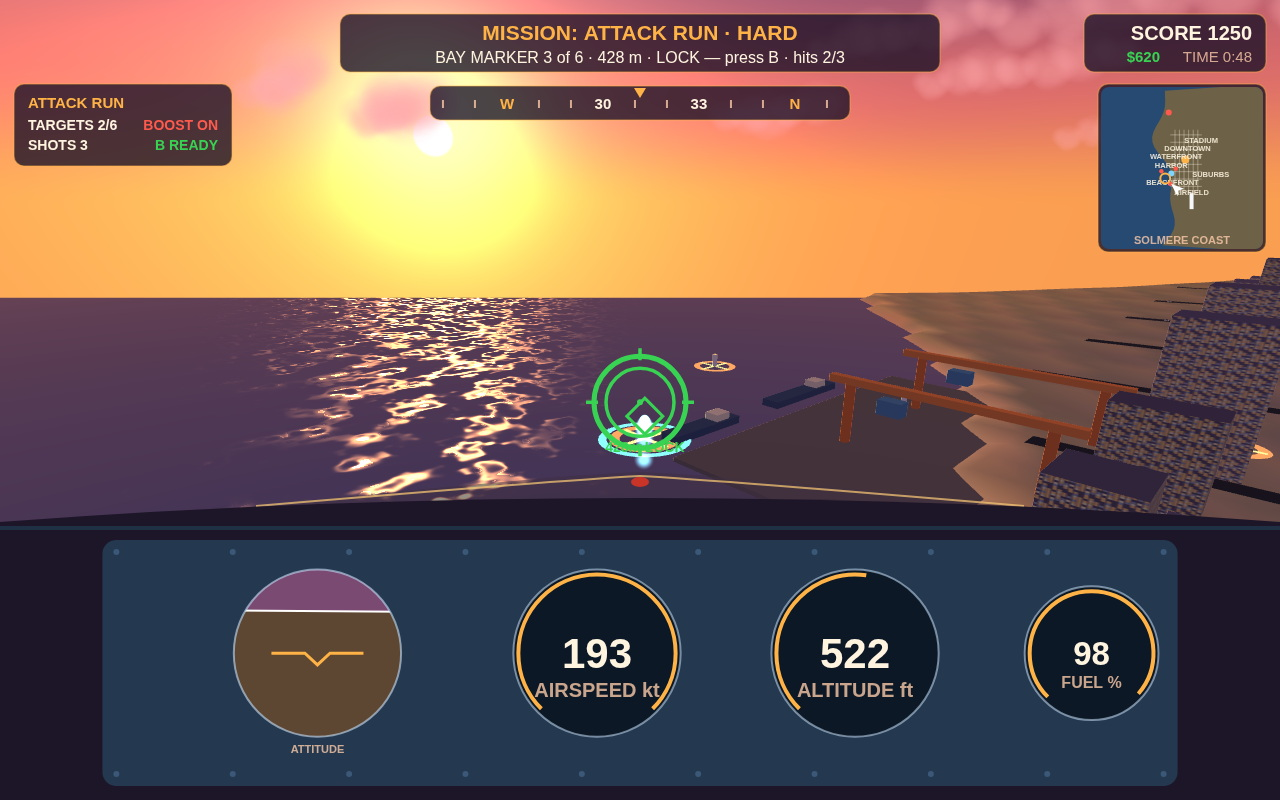
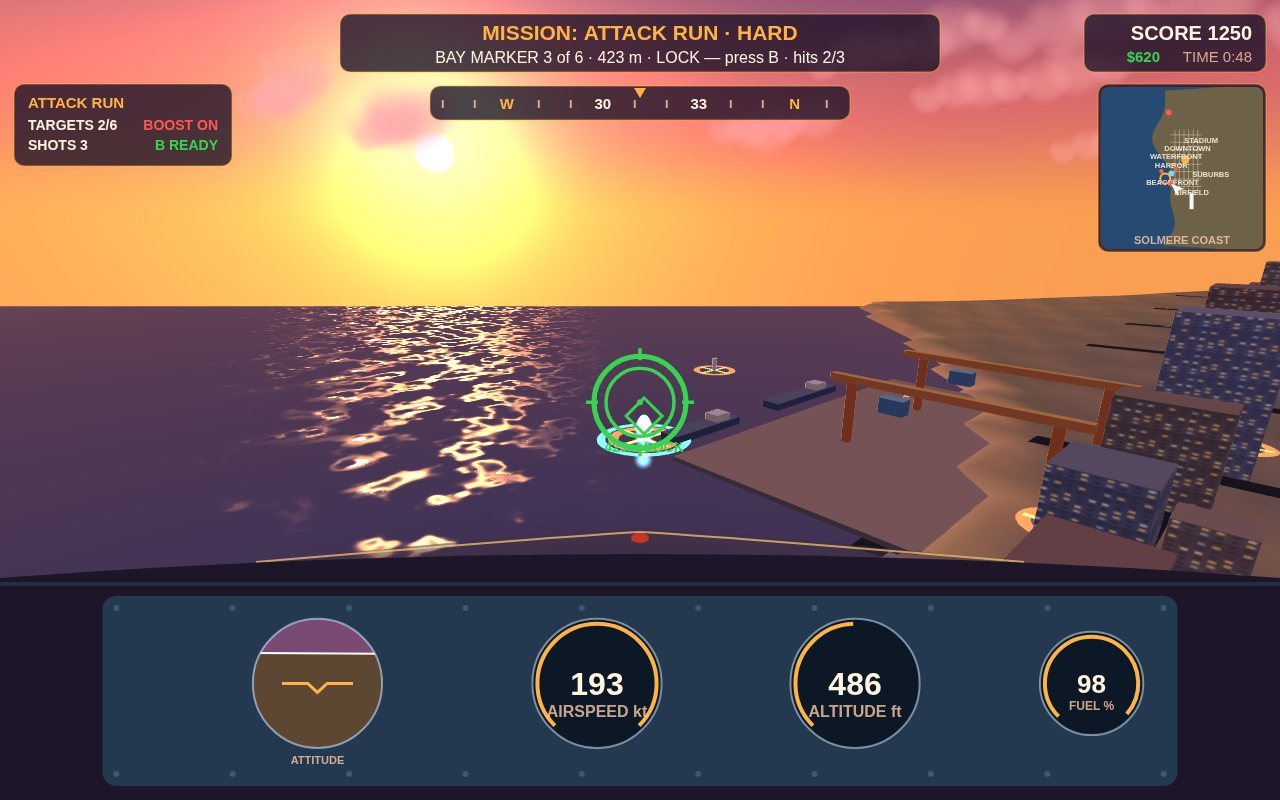
Sunwing Courier v8: calm facades, close chase camera, ring-course cover

diff --git a/game/src/shots.js b/game/src/shots.js
@@ -14,28 +14,28 @@ export function shotSceneFromUrl(search) {
 export function applyShotScene(state, scene) {
   const a = state.aircraft;
   if (scene.shot === 'cover') {
-    // Chase view banking hard over the downtown avenues: traffic and
-    // streetlights below, towers either side, the canyon gate ahead,
-    // sunset sea beyond the skyline, boost lit on the gauges.
-    state.missionKind = 'canyon';
+    // The cover frame: chase view banked over the shoreline toward the
+    // second ring, the Sunwing large in frame, lit skyline below right,
+    // sunset sea and the ring ahead — the whole game in one glance.
+    state.missionKind = 'rings';
     Object.assign(a, {
-      x: 120, y: 88, z: 700, heading: 0.1, pitch: -0.02, roll: -0.5,
-      speed: 60, throttle: 0.7, boostCharge: 0.65, boostBlend: 0.35,
+      x: 145, y: 218, z: 75, heading: -0.6, pitch: 0.02, roll: -0.38,
+      speed: 56, throttle: 0.66, boostCharge: 0.8, boostBlend: 0.2,
       onGround: false, gearDown: false,
     });
     state.missionTime = 42;
-    state.score = 900;
-    state.cash = 540;
-    state.mission.ringIndex = 0;
-    state.mission.target = state.mission.rings[0];
-    state.mission.bannerText = 'Gate 1 of 9 — in the canyon, bonus live';
+    state.score = 300;
+    state.cash = 180;
+    state.mission.ringIndex = 1;
+    state.mission.target = state.mission.rings[1];
+    state.mission.bannerText = 'Ring 2 of 8 — over the skyline to the sunset sea';
   } else if (scene.shot === 'attack') {
     // Attack dive on the third harbour marker: cockpit sight tracking,
     // tracer live, boost burning, cranes and glittering water below.
     state.missionKind = 'attack';
     state.cockpitView = true;
     Object.assign(a, {
-      x: -60, y: 200, z: 640, heading: -0.84, pitch: -0.32, roll: -0.22,
+      x: -60, y: 185, z: 640, heading: -0.84, pitch: -0.24, roll: -0.18,
       speed: 76, throttle: 0.84, boostCharge: 0.6, boostBlend: 0.75,
       onGround: false, gearDown: false,
     });
@@ -57,9 +57,9 @@ export function applyShotScene(state, scene) {
     // Cargo away over the harbour: crate under its parachute ahead of the
     // aircraft, drop beacon, cranes and sunset sea below.
     state.missionKind = 'cargo';
-    Object.assign(a, { x: 120, y: 235, z: 330, heading: -1.22, pitch: 0.0, roll: -0.18, speed: 50, throttle: 0.5, onGround: false, gearDown: false });
+    Object.assign(a, { x: 40, y: 190, z: 330, heading: -1.22, pitch: 0.0, roll: -0.18, speed: 50, throttle: 0.5, onGround: false, gearDown: false });
     state.mission.dropped = true;
-    state.mission.crate = { x: -120, y: 210, z: 290, vx: -8, vy: -7, vz: -3 };
+    state.mission.crate = { x: -150, y: 175, z: 300, vx: -8, vy: -7, vz: -3 };
     state.mission.bannerText = 'Crate away — watch it fall';
     state.missionTime = 54;
     state.score = 450;

diff --git a/game/src/webgl-renderer.js b/game/src/webgl-renderer.js
@@ -534,30 +534,47 @@ function bindBillboards(gl, program, billboards) {
   bindPositions(gl, program, billboards.alphas, 'aAlpha');
 }
 
-// A repeating window sheet: dark facade cells with warm lit windows in two
-// tones, so every building face glows like dusk offices and apartments.
+// A repeating window sheet: calm dusk facades with a sparse grid of warm
+// lit windows. Windows stay small inside their cells with dark glass
+// between them, so a tower reads as a building at thumbnail size instead
+// of dissolving into checkerboard noise.
 function makeWindowsTexture(gl) {
   const size = 256;
   const canvas = document.createElement('canvas');
   canvas.width = size; canvas.height = size;
   const ctx = canvas.getContext('2d');
-  ctx.fillStyle = '#241f2e';
+  const facade = ctx.createLinearGradient(0, 0, 0, size);
+  facade.addColorStop(0, '#3a3348');
+  facade.addColorStop(0.55, '#2e283e');
+  facade.addColorStop(1, '#262032');
+  ctx.fillStyle = facade;
   ctx.fillRect(0, 0, size, size);
-  let seed = 1234567;
+  let seed = 987654321;
   const rand = () => {
     seed = (seed * 1664525 + 1013904223) >>> 0;
     return seed / 4294967296;
   };
-  const cols = 6, rows = 8;
+  const cols = 5, rows = 7;
   const cw = size / cols, ch = size / rows;
   for (let r = 0; r < rows; r++) {
+    // A faint floor slab line keeps storeys legible from a distance.
+    ctx.fillStyle = 'rgba(214,190,160,0.10)';
+    ctx.fillRect(0, r * ch, size, 2);
     for (let c = 0; c < cols; c++) {
       const lit = rand();
-      if (lit < 0.42) ctx.fillStyle = '#ffb347';
-      else if (lit < 0.58) ctx.fillStyle = '#ffe3a3';
-      else if (lit < 0.66) ctx.fillStyle = '#7d8aa8';
-      else continue;
-      ctx.fillRect(c * cw + 4, r * ch + 4, cw - 8, ch - 8);
+      const wx = c * cw + cw * 0.24;
+      const wy = r * ch + ch * 0.22;
+      const ww = cw * 0.52;
+      const wh = ch * 0.56;
+      if (lit < 0.30) ctx.fillStyle = '#ffb85c';
+      else if (lit < 0.38) ctx.fillStyle = '#ffe6ae';
+      else if (lit < 0.44) ctx.fillStyle = '#8fa3c4';
+      else ctx.fillStyle = '#1c1826';
+      ctx.fillRect(wx, wy, ww, wh);
+      if (lit < 0.44) {
+        ctx.fillStyle = 'rgba(255,255,255,0.20)';
+        ctx.fillRect(wx, wy, ww, 3);
+      }
     }
   }
   return uploadTexture(gl, canvas, true);

diff --git a/game/src/gl-world.js b/game/src/gl-world.js
@@ -51,10 +51,16 @@ class GeometryBuilder {
       { n: [0, 1, 0], pts: [[x0, y1, z0], [x1, y1, z0], [x1, y1, z1], [x0, y1, z1]], u: w, roof: true },
     ];
     for (const face of faces) {
+      // Roofs catch the last sun: lift them toward warm grey so a tower
+      // top reads as a roof, not as another dark facade. Window UVs use
+      // wide repeats, so each lit window is a real storey-sized pane.
+      const faceColor = face.roof
+        ? [Math.min(1, color[0] * 1.35 + 0.16), Math.min(1, color[1] * 1.3 + 0.13), Math.min(1, color[2] * 1.2 + 0.1)]
+        : color;
       const ids = face.pts.map(([x, y, z], i) => {
-        const u = windowScale && !face.roof ? (i === 1 || i === 2 ? face.u / 11 : 0) : 0;
-        const v = windowScale && !face.roof ? (i >= 2 ? h / 7 : 0) : 0;
-        return this.vertex(x, y, z, face.n[0], face.n[1], face.n[2], color, u, v);
+        const u = windowScale && !face.roof ? (i === 1 || i === 2 ? face.u / 21 : 0) : 0;
+        const v = windowScale && !face.roof ? (i >= 2 ? h / 14 : 0) : 0;
+        return this.vertex(x, y, z, face.n[0], face.n[1], face.n[2], faceColor, u, v);
       });
       this.quad(ids[0], ids[1], ids[2], ids[3]);
     }
@@ -129,12 +135,21 @@ function urbanAmount(x, z) {
   return Math.max(0, 1 - d);
 }
 
+// Three facade families — warm sand, slate and terracotta — so the
+// skyline has variety a pilot can navigate by, not one repeated tint.
+const FACADE_FAMILIES = [
+  [0.62, 0.5, 0.4],
+  [0.42, 0.47, 0.58],
+  [0.6, 0.42, 0.36],
+];
+
 export function buildCityGeometry(buildings, heights) {
   const b = new GeometryBuilder();
   for (const building of buildings) {
     const base = terrainHeightAt(heights, building.x, building.z);
-    const warm = 0.36 + (building.hue % 17) / 90;
-    const color = [warm, warm * 0.82, warm * 1.18];
+    const family = FACADE_FAMILIES[Math.floor(Math.abs(building.hue)) % FACADE_FAMILIES.length];
+    const lift = 0.85 + ((building.hue * 7) % 13) / 40;
+    const color = family.map((c) => Math.min(1, c * lift));
     b.box(building.x, base + building.height / 2, building.z,
       building.width, building.height, building.depth, color, 1);
     if (building.landmark) {

diff --git a/game/src/camera.js b/game/src/camera.js
@@ -17,7 +17,10 @@ export function updateChaseCamera(camera, aircraft, dt, cockpitView) {
     return camera;
   }
   const boost = aircraft.boostBlend || 0;
-  const back = 27 + boost * 5.5, up = 7.6 + boost * 1.3;
+  // A close chase keeps the Sunwing large in frame — the pilot reads
+  // bank and pitch off the airframe itself, and boost still pulls the
+  // camera back so speed stays legible.
+  const back = 20.5 + boost * 5, up = 6 + boost * 1.2;
   const tx = aircraft.x - Math.sin(aircraft.heading) * back;
   const tz = aircraft.z + Math.cos(aircraft.heading) * back;
   const ty = aircraft.y + up;

diff --git a/game/src/aircraft.js b/game/src/aircraft.js
@@ -3,7 +3,9 @@
 // The airframe itself is true 3D geometry in gl-aircraft.js.
 
 export function drawCockpitPanel(ctx, width, height, aircraft, instruments) {
-  const panelTop = height * 0.62;
+  // The panel sits low: instruments stay big and lit, but the pilot
+  // keeps most of the frame for the coast, the target and the sky.
+  const panelTop = height * 0.69;
   // Blended V-wing nose above the panel: a low pod spine with the two
   // wing roots sweeping away at the frame edges.
   ctx.fillStyle = 'rgba(64,48,66,0.55)';

diff --git a/game/src/main.js b/game/src/main.js
@@ -282,7 +282,7 @@ if (scene) {
   state.buildings = buildCityBuildings(scene.seed);
   state.clouds = buildCloudField(scene.seed);
   state.traffic = buildTraffic(scene.seed);
-  const shotMission = scene.shot === 'cover' ? 'canyon'
+  const shotMission = scene.shot === 'cover' ? 'rings'
     : scene.shot === 'landing' ? 'landing'
       : scene.shot === 'attack' ? MISSION_ATTACK : 'cargo';
   state.missionKind = shotMission;
